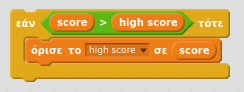
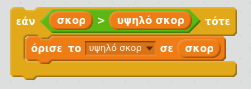
Update Greek

diff --git a/el-GR/step_1.md b/el-GR/step_1.md
@@ -1,11 +1,11 @@
 Είναι διασκεδαστικό να παρακολουθείς το υψηλότερο σκορ σε ένα παιχνίδι.
 
-Ας υποθέσουμε ότι έχεις μία μεταβλητή που ονομάζεται `score`, η οποία έχει την τιμή μηδέν στην αρχή κάθε παιχνιδιού.
+Ας υποθέσουμε ότι έχεις μία μεταβλητή που ονομάζεται `σκορ`, η οποία έχει την τιμή μηδέν στην αρχή κάθε παιχνιδιού.
 
-Πρόσθεσε μία άλλη μεταβλητή που ονομάζεται `high score`.
+Πρόσθεσε μία άλλη μεταβλητή που ονομάζεται `υψηλό σκορ`.
 
-![στιγμιότυπο οθόνης](images/make-high-score-variable.png)
+![screenshot](images/make-high-score-variable.png)
 
 Στο τέλος του παιχνιδιού (ή όποτε θέλεις να ενημερώνεις το υψηλότερο σκορ), θα πρέπει να ελέγχεις αν έχεις ένα νέο `υψηλό σκορ`.
 
-![στιγμιότυπο οθόνης](images/check-for-high-score.png)
+![screenshot](images/check-for-high-score.png)
